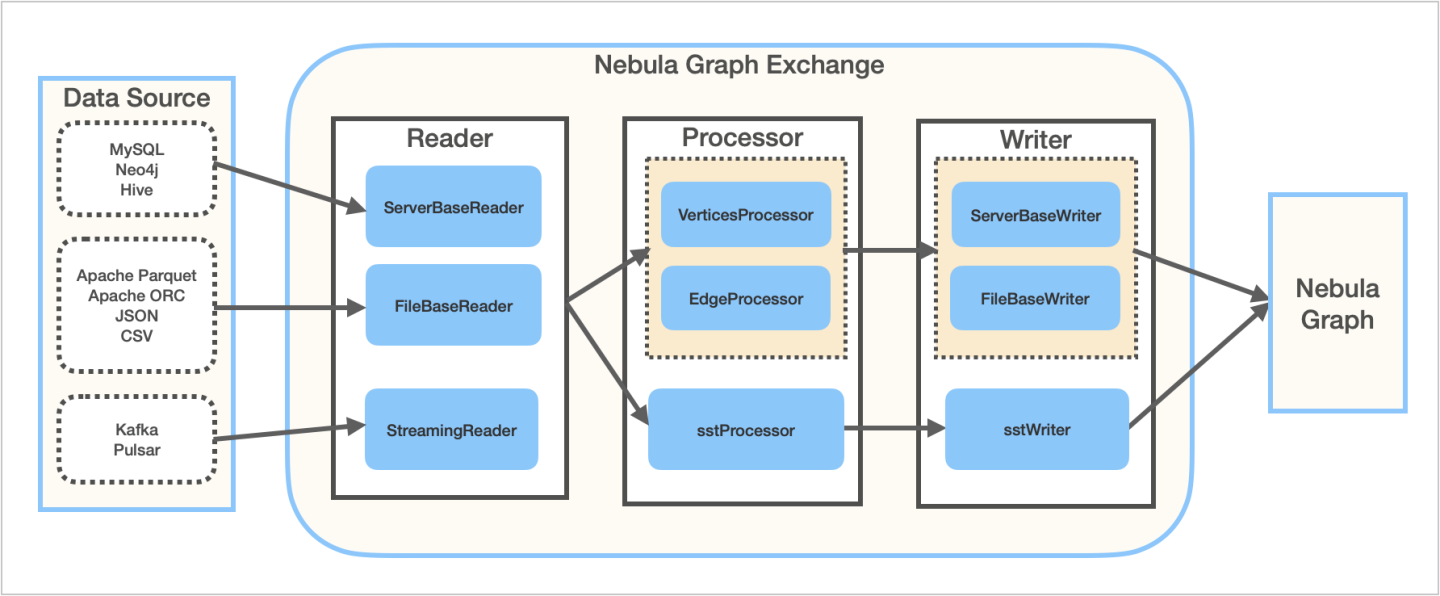
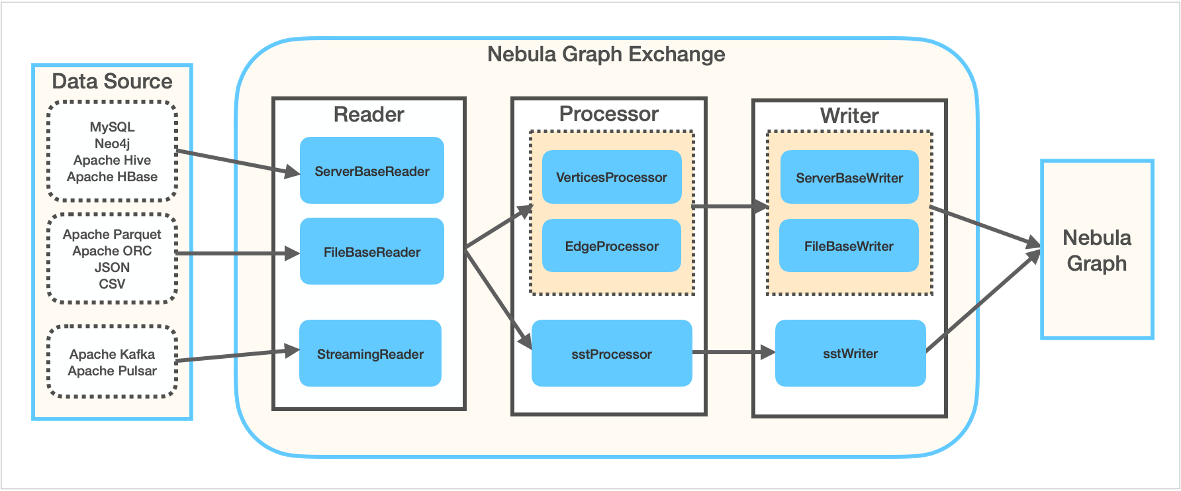
updated data source info through docs

diff --git a/nebula-exchange/ex-ug-toc.md b/nebula-exchange/ex-ug-toc.md
@@ -11,8 +11,8 @@
   - 操作示例
     - [导入 Neo4j 数据](use-exchange/ex-ug-import-from-neo4j.md)
     - 导入 HDFS 数据[TODO]
+    - 导入 HBase 数据[TODO]
     - 导入 HIVE 数据[TODO]
-    - 导入 JanusGraph 数据[TODO]
     - 导入 Kafka 数据[TODO]
     - 导入 MySQL 数据[TODO]
     - [导入 SST 文件](use-exchange/ex-ug-import-sst.md)
@@ -22,6 +22,7 @@
   - 数据源参数
     - [Neo4j 参数](parameter-reference/ex-ug-paras-neo4j.md)
     - HDFS 参数[TODO]
+    - HBase 参数[TODO]
     - HIVE 参数[TODO]
     - Kafka 参数[TODO]
     - MySQL 参数[TODO]

diff --git a/nebula-exchange/about-exchange/ex-ug-limitations.md b/nebula-exchange/about-exchange/ex-ug-limitations.md
@@ -35,7 +35,6 @@ Exchange 支持将以下格式或来源的数据转换为 Nebula Graph 能识别
   - Apache ORC
   - JSON
   - CSV
-- Elasticsearch
 - Apache HBase&trade;
 - 数据仓库：HIVE
 - 图数据库：Neo4j 2.4.5-M1
